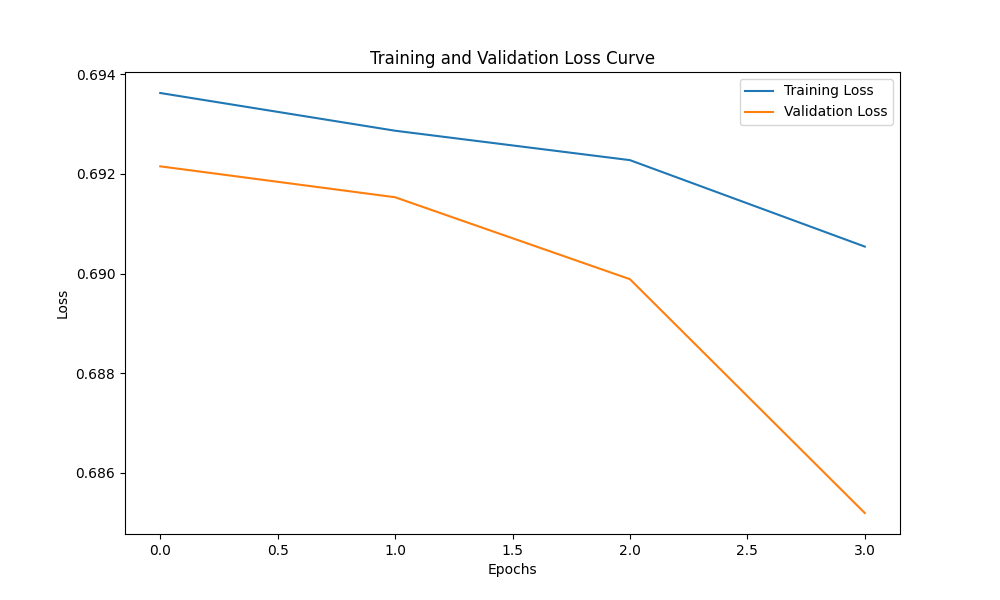
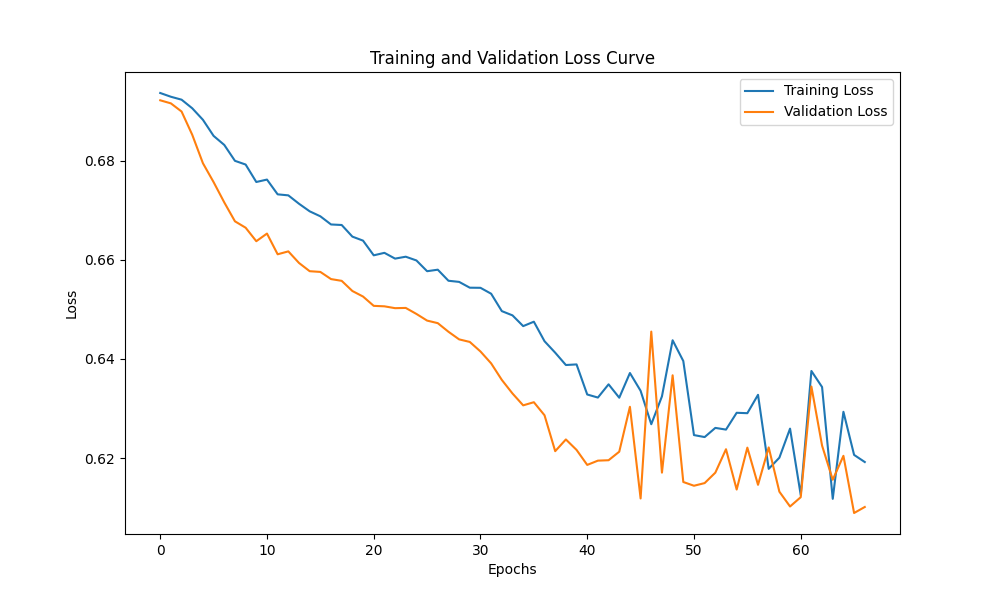
Debugging.

diff --git a/gnn_trainer.py b/gnn_trainer.py
@@ -49,9 +49,9 @@ def evaluate_model(model, data_loader, gnn_type):
     total_loss = 0
     all_predicted_labels = []
     all_true_labels = []
-    hidden_state = None
     with torch.no_grad():
         for sequence in data_loader:
+            hidden_state = None
             if gnn_type == 'GAT_LSTM':
                 logits, hidden_state = model(sequence, hidden_state)
                 hidden_state = (hidden_state[0].detach(), hidden_state[1].detach()) # Detach the hidden state to prevent backpropagation through time
@@ -70,7 +70,7 @@ def evaluate_model(model, data_loader, gnn_type):
 
     return total_loss / len(data_loader), all_predicted_labels, all_true_labels
 
-def plot_training_results(filename, loss_values, val_loss_values):
+def plot_training_results(bucket_manager, filename, loss_values, val_loss_values):
     plt.figure(figsize=(10, 6))
     plt.plot(loss_values, label='Training Loss')
     plt.plot(val_loss_values, label='Validation Loss')
@@ -78,8 +78,9 @@ def plot_training_results(filename, loss_values, val_loss_values):
     plt.ylabel('Loss')
     plt.title('Training and Validation Loss Curve')
     plt.legend()
-    plt.savefig(filename)
+    plt.savefig('loss_plt.png')
     plt.close()
+    bucket_manager.upload_from_filepath('loss_plt.png', filename)
 
 def print_results(methods, snapshot_sequence, test_true_labels, test_predicted_labels, start_time):
     true_positives = np.sum(np.logical_and(test_predicted_labels == 1, test_true_labels == 1))
@@ -95,13 +96,16 @@ def print_results(methods, snapshot_sequence, test_true_labels, test_predicted_l
     f1 = f1_score(test_true_labels, test_predicted_labels, average='binary', zero_division=0)
     logging.warning(f'{methods}. Test: F1 Score: {f1:.2f}. Precision: {precision:.2f}, Recall: {recall:.2f}. {len(snapshot_sequence)} snapshots.')
 
-def save_model_to_bucket(bucket_manager, model_path, model, training_sequence_filenames, hidden_layers, learning_rate, batch_size, snapshot_sequence_length):
+def save_model_to_bucket(bucket_manager, model_path, model, training_sequence_filenames, hidden_layers, learning_rate, batch_size, snapshot_sequence_length, date_time_str):
+    model_file_name = model_filename(model_path, training_sequence_filenames, hidden_layers, learning_rate, batch_size, snapshot_sequence_length, date_time_str)
+    bucket_manager.torch_save_to_bucket(model, model_file_name)
+    return model_file_name
+
+def model_filename(model_path, training_sequence_filenames, hidden_layers, learning_rate, batch_size, snapshot_sequence_length, date_time_str):
     snapshot_name = os.path.commonprefix(training_sequence_filenames).replace('training_sequences/', '')
-    date_time_str = datetime.now().strftime("%Y%m%d_%H%M%S")
     filename_root = f'{snapshot_name}_hl{hidden_layers}nsnpsht_{snapshot_sequence_length}_lr_{learning_rate:.4f}_bs_{batch_size}_{date_time_str}'
     filename_root = filename_root.replace('[', '_').replace(']', '_').replace(' ', '')
     model_file_name = f'{model_path}model_{filename_root}.pt'
-    bucket_manager.torch_save_to_bucket(model, model_file_name)
     return model_file_name
 
 def get_num_relations(bucket_manager, training_sequence_filenames):
@@ -175,6 +179,7 @@ def train_gnn(gnn_type='GAT',
               checkpoint_file=None,  # Add checkpoint file parameter
               checkpoint_path='checkpoints/'):
 
+    date_time_str = datetime.now().strftime("%Y%m%d_%H%M%S")
     logging.info(f'Training {gnn_type} on a maximum of {max_training_sequences} snapshot sequences for {number_of_epochs} epochs, validating on {n_validation_sequences} sequences, on graphs of sizes between {min_nodes} and {max_nodes} and sequence lengths of between {min_snapshots} and {max_snapshots} with a log window of {log_window}.')
     device = torch.device('cuda' if torch.cuda.is_available() else 'cpu')
     logging.info(f'Using device: {device}')
@@ -217,9 +222,9 @@ def train_gnn(gnn_type='GAT',
         epoch_loss = 0.0
         number_of_compromised_nodes = 0
         number_of_uncompromised_nodes = 0
-        hidden_state = None
 
         for i, sequence in enumerate(training_data_loader):
+            hidden_state = None
             # sequence.to(device)
             for snapshot in sequence:
                 number_of_compromised_nodes += torch.sum(snapshot.y == 1).item()
@@ -255,8 +260,9 @@ def train_gnn(gnn_type='GAT',
             metric_value=f1,
             global_step=global_step)
         logging.info(f'Epoch {epoch}: F1: {f1:.4f}. Precision: {precision:.4f}. Recall: {recall:.4f}. Training Loss: {epoch_loss:.4f}. Validation Loss: {val_loss:.4f}. {number_of_compromised_nodes} compromised nodes. {number_of_uncompromised_nodes} uncompromised nodes. Time: {end_time - start_time:.4f}s. Learning rate: {learning_rate}. Hidden Layers: {hidden_layers}')
-        
-        plot_training_results('loss_plot.png', train_loss_values, validation_loss_values)
+
+        mfn = model_filename(model_dirpath, training_sequence_filenames, hidden_layers, learning_rate, batch_size, len(training_data_loader), date_time_str)
+        plot_training_results(bucket_manager, f'loss_plot_{mfn}.png', train_loss_values, validation_loss_values)
 
     model = model.to('cpu')
     model_file_name = save_model_to_bucket(bucket_manager=bucket_manager, 
@@ -266,7 +272,8 @@ def train_gnn(gnn_type='GAT',
                                            hidden_layers=hidden_layers, 
                                            learning_rate=learning_rate, 
                                            batch_size=batch_size, 
-                                           snapshot_sequence_length=len(training_data_loader))
+                                           snapshot_sequence_length=len(training_data_loader),
+                                           date_time_str=date_time_str)
 
     return model_file_name
 

diff --git a/main.py b/main.py
@@ -35,7 +35,7 @@ parser.add_argument('--bucket_name', type=str, default='gnn_rddl', help='Name of
 
 # Instance creation and training
 parser.add_argument('--min_size', type=int, default=16, help='Minimum number of hosts in each instance')
-parser.add_argument('--max_size', type=int, default=16, help='Maximum number of hosts in each instance')
+parser.add_argument('--max_size', type=int, default=32, help='Maximum number of hosts in each instance')
 
 # Instance creation
 parser.add_argument('--n_instances', type=int, default=1024, help='Number of instances to create')
@@ -51,19 +51,19 @@ parser.add_argument('--random_agent_seed', default=None, help='Seed for random c
 
 # Training
 parser.add_argument('--gnn_type', default='GAT_LSTM', choices=['GAT', 'RGCN', 'GIN', 'GCN', 'GAT_LSTM'], help='Type of GNN to use for training')
-parser.add_argument('--max_training_sequences', type=int, default=32, help='Maximum number of instances to use for training')
-parser.add_argument('--n_validation_sequences', type=int, default=16, help='Number of sequences to use for validation')
+parser.add_argument('--max_training_sequences', type=int, default=362, help='Maximum number of instances to use for training')
+parser.add_argument('--n_validation_sequences', type=int, default=32, help='Number of sequences to use for validation')
 parser.add_argument('--train_log_window', type=int, default=64, help='Size of the logging window')
 parser.add_argument('--epochs', type=int, default=128, help='Number of epochs for GNN training')
-parser.add_argument('--learning_rate', type=float, default=0.0002, help='Learning rate for GNN training')
+parser.add_argument('--learning_rate', type=float, default=0.00010000000000000003, help='Learning rate for GNN training')
 parser.add_argument('--batch_size', type=int, default=128, help='Batch size for GNN training')
-parser.add_argument('--n_hidden_layer_1', type=int, default=1024, help='Number of neurons in hidden layer 1 for GNN')
-parser.add_argument('--n_hidden_layer_2', type=int, default=512, help='Number of neurons in hidden layer 2 for GNN')
-parser.add_argument('--n_hidden_layer_3', type=int, default=256, help='Number of neurons in hidden layer 3 for GNN')
+parser.add_argument('--n_hidden_layer_1', type=int, default=362, help='Number of neurons in hidden layer 1 for GNN')
+parser.add_argument('--n_hidden_layer_2', type=int, default=362, help='Number of neurons in hidden layer 2 for GNN')
+parser.add_argument('--n_hidden_layer_3', type=int, default=362, help='Number of neurons in hidden layer 3 for GNN')
 parser.add_argument('--n_hidden_layer_4', type=int, default=0, help='Number of neurons in hidden layer 4 for GNN')
-parser.add_argument('--edge_embedding_dim', type=int, default=64, help='Edge embedding dimension for GAT')
-parser.add_argument('--heads_per_layer', type=int, default=3, help='Number of attention heads per layer for GAT')
-parser.add_argument('--lstm_hidden_dim', type=int, default=128, help='Number of neurons in LSTM hidden layer for GNN_LSTM')
+parser.add_argument('--edge_embedding_dim', type=int, default=362, help='Edge embedding dimension for GAT')
+parser.add_argument('--heads_per_layer', type=int, default=5, help='Number of attention heads per layer for GAT')
+parser.add_argument('--lstm_hidden_dim', type=int, default=362, help='Number of neurons in LSTM hidden layer for GNN_LSTM')
 parser.add_argument('--checkpoint_file', type=str, default=None, help='Name of the checkpoint file to resume training from.')
 
 # Evaluation and animation

diff --git a/bucket_manager.py b/bucket_manager.py
@@ -35,6 +35,6 @@ class BucketManager:
         blob = self.bucket.blob(blob_name)
         blob.upload_from_string(json_data)
 
-    def undefined_save_to_bucket(self, data, blob_name):
+    def upload_from_filepath(self, filepath, blob_name):
         blob = self.bucket.blob(blob_name)
-        blob.upload_from_string(data)
+        blob.upload_from_filename(filepath)
